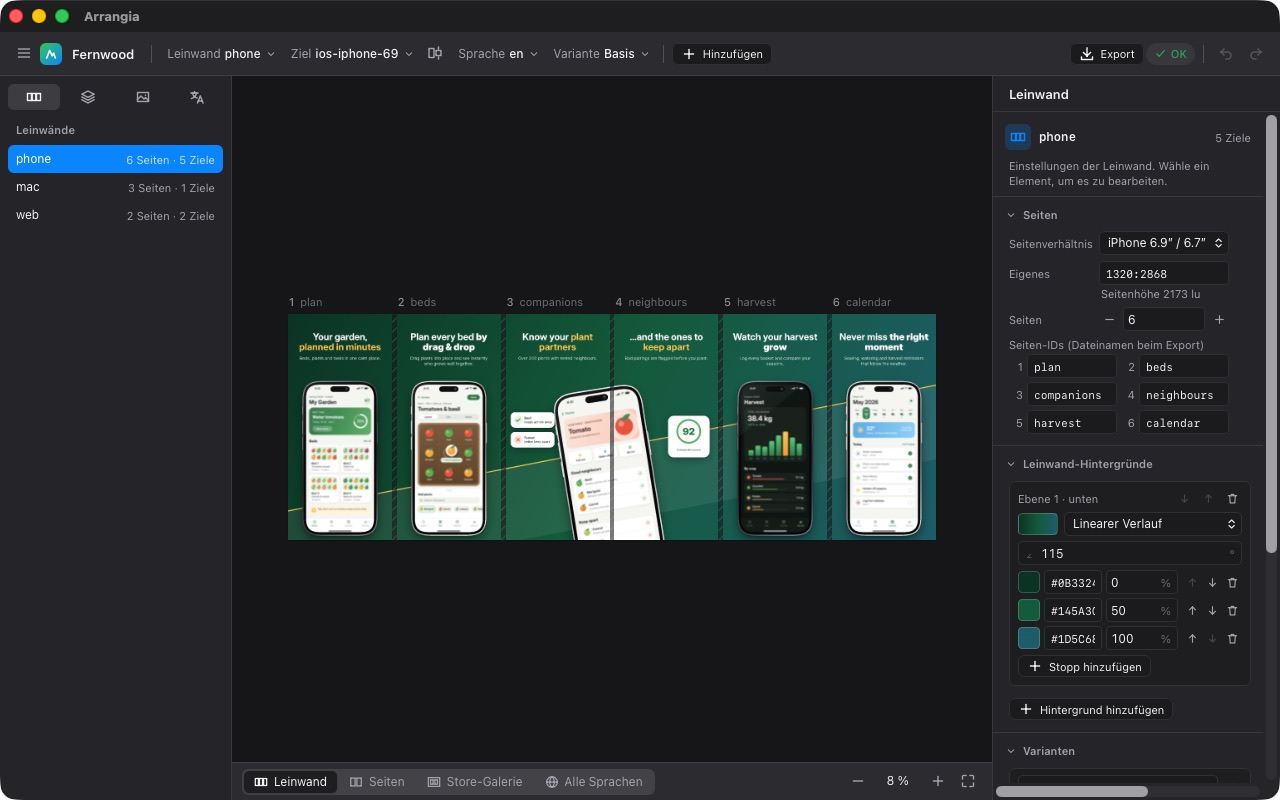
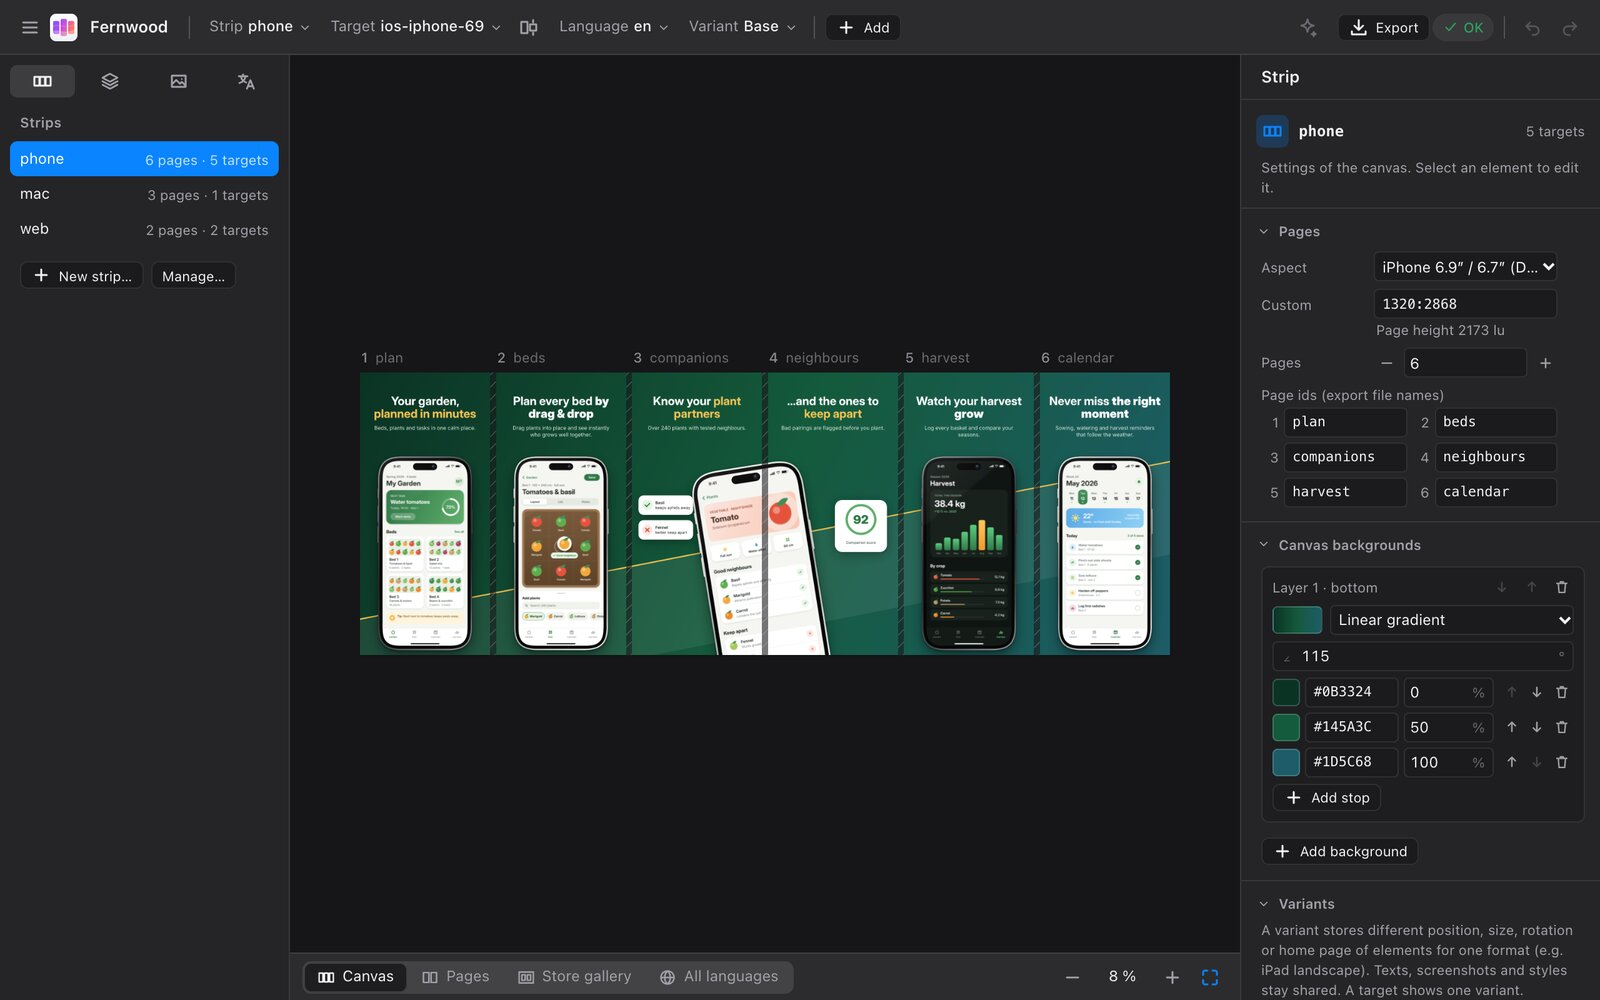
Docs: new editor screenshots (Vitrine Studio, current UI)

diff --git a/README.md b/README.md
@@ -74,7 +74,7 @@ is saved immediately as plain YAML.
 
 ![The editor with the example project](docs/gui/editor-dark.jpg)
 
-![A text added from the Add menu and edited on the canvas](docs/gui/text-editing.jpg)
+![A selected headline with its settings in the inspector](docs/gui/text-editing.jpg)
 
 ### Example
 
